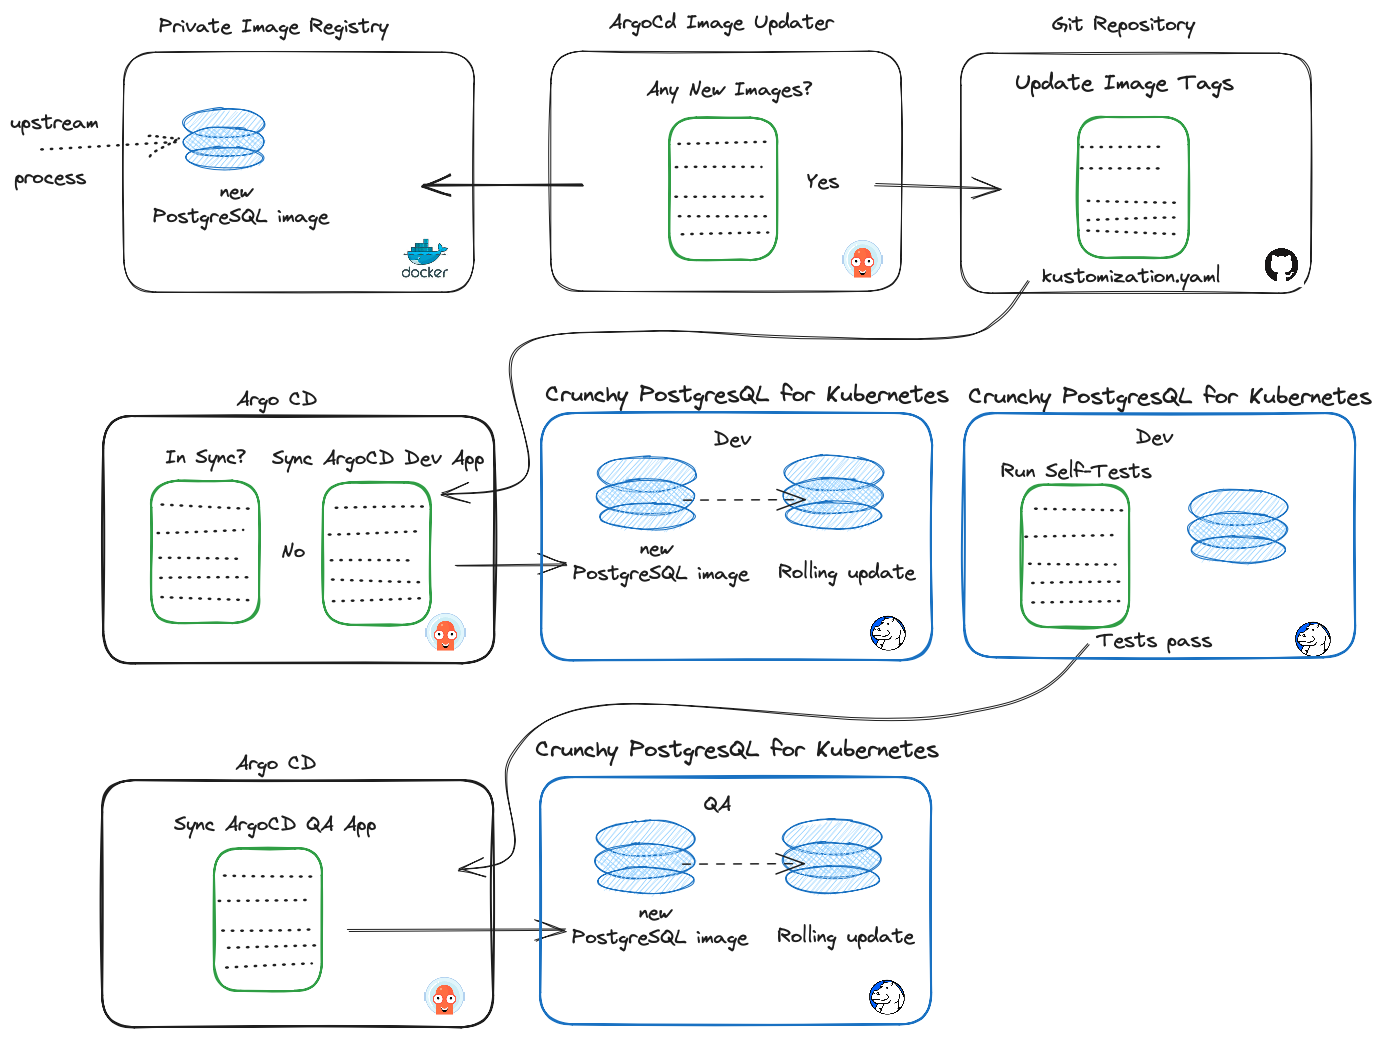
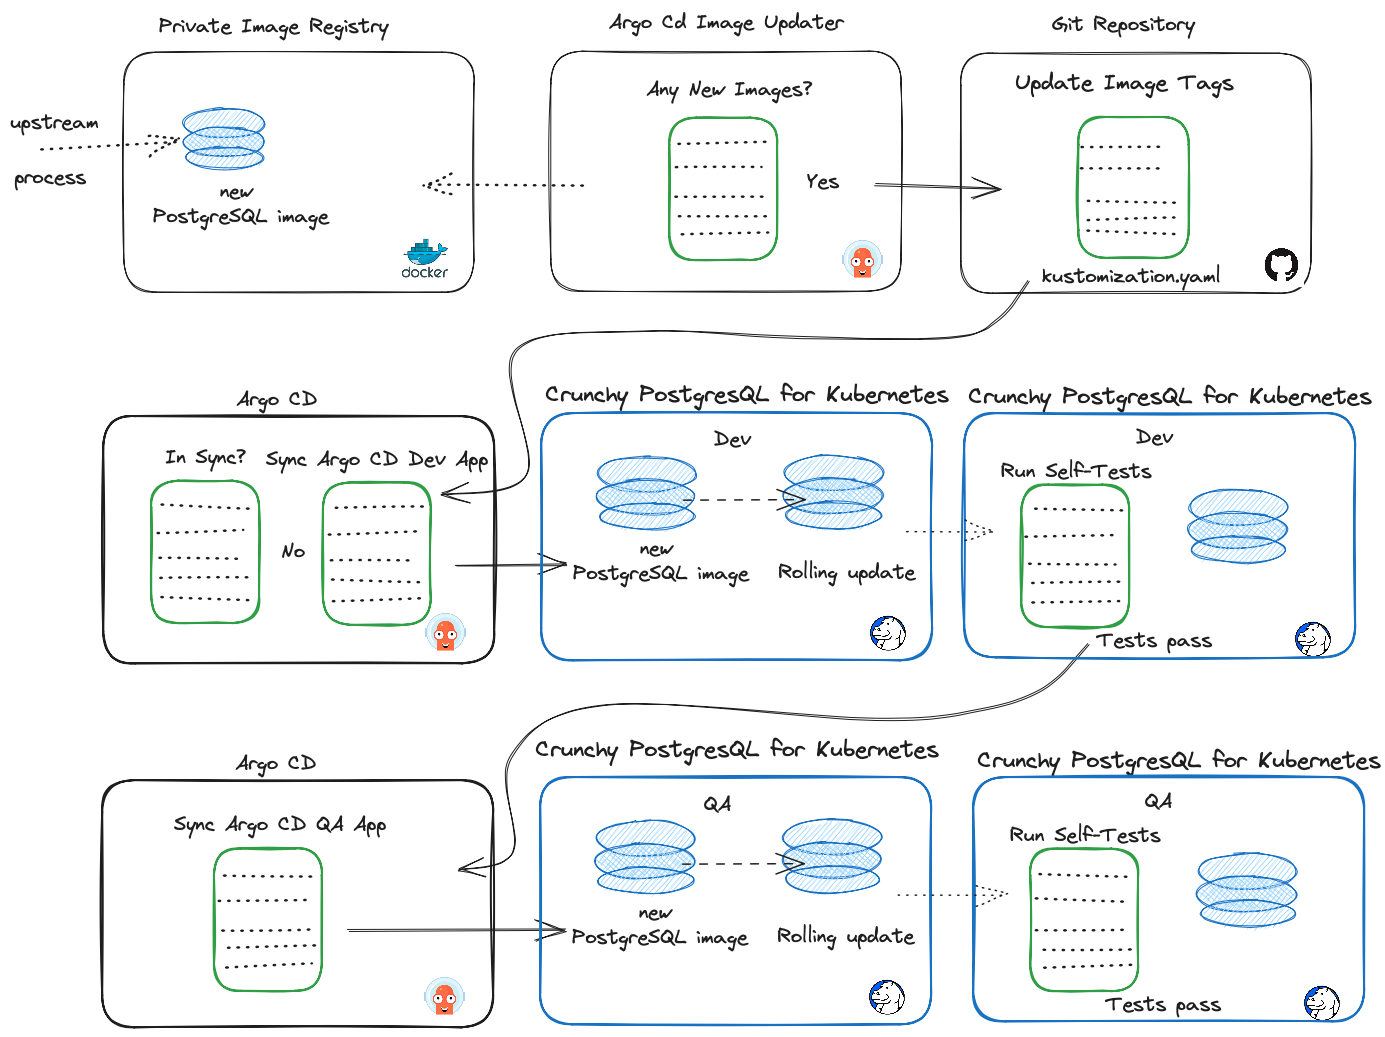
More Edits

diff --git a/Part-2-Update/README.md b/Part-2-Update/README.md
@@ -1,19 +1,19 @@
 # Use CI/CD to Automatically Update Postgres Images with Argo CD
-# DRAFT
+
 When working with containers you always have to be mindful of the age of the containers. Everyday new CVEs are being discovered and are turning up in image scans.  One benefit of having a CI/CD pipeline is the ability to implement security automation.  Let's assume you release a monthly update of your containers that are built on the latest version of the base image and all of the most recent patches have been applied.  This ensures that each month you can remediate any CVEs that might have popped up in your images since their initial release.  In this blog we show you how to use ARGO CD Image Updater as part of your CI/CD pipeline to automatically deploy, test and promote your updated images.  All by doing nothing more than putting them into your registry.
 
 ![workflow](images/argo_image_update_workflow.png)
 
-This is the part 2 of CI/CD with Crunchy Postgres for Kubernetes and Argo series.  We will pickup from where we left off in [part 1](https://www.crunchydata.com/blog/ci-cd-with-crunchy-postgres-for-kubernetes-and-argo). We will use ArgoCD Image Updater to monitor a private Docker registry for changes to the postgres image tag.  The image updater will update the image tag in github and the ArgoCD application will deploy those changes to the postgres-dev namespace.  Once deployed, the [self-test](https://github.com/bobpach/Crunchy-Postgres-Self-Test) will run and the changes will be applied to the postgres-qa namespace if all tests pass.
+This is the part 2 of CI/CD with Crunchy Postgres for Kubernetes and Argo series.  We will pickup from where we left off in [part 1](https://www.crunchydata.com/blog/ci-cd-with-crunchy-postgres-for-kubernetes-and-argo). We will use Argo CD Image Updater to monitor a private Docker registry for changes to the postgres image tag.  The image updater will update the image tag in github and the Argo CD application will deploy those changes to the postgres-dev namespace.  Once deployed, the [self-test](https://github.com/bobpach/Crunchy-Postgres-Self-Test) will run and the changes will be applied to the postgres-qa namespace if all tests pass.
 
 ## Prerequisites
 There are a few pre-requisites you will need to handle if you plan on following along with this example :
-- A fully functional ArgoCD deployment and a Crunchy Data Postgres cluster as described in my previous [CI/CD blog](https://www.crunchydata.com/blog/ci-cd-with-crunchy-postgres-for-kubernetes-and-argo).
+- A fully functional Argo CD deployment and a Crunchy Data Postgres cluster as described in my previous [CI/CD blog](https://www.crunchydata.com/blog/ci-cd-with-crunchy-postgres-for-kubernetes-and-argo).
 - A private container registry containing the images you want to deploy. Most
   organizations will pull images, tag them and then upload them into their
   private registries. For this blog I am using a private registry for all images
   except the self test. That image is in a public repo in my docker registry.
-- An [access token](https://docs.github.com/en/authentication/connecting-to-github-with-ssh/managing-deploy-keys) for your private registry.
+- An [access token](https://docs.docker.com/docker-hub/access-tokens/) for your private registry.
 - A git repository containing the Crunchy Postgres for Kubernetes manifest to be
   deployed. Here's a sample manifest you can use or you can fork
   [my git repository](https://github.com/bobpach/Postgres-CI-CD).
@@ -27,10 +27,14 @@ kubectl apply -n argocd -f secrets/privaterepo.yaml
 kubectl apply -n argocd -f secrets/privatereg.yaml
 ```
 
-You should already have a secret called argocd-token in the postgres-dev and postgres-qa namespaces.  This secret contains the base64 encoded JWT token that was created in the sync role in the cicd project in ArgoCD.  It was created as part of the initial CI/CD blog. 
+You should already have a secret called argocd-token in the postgres-dev and postgres-qa namespaces.  This secret contains the base64 encoded JWT token that was created in the sync role in the cicd project in ArgoCD.  It was created as part of the initial CI/CD blog. If you do not have the secret, you can create it now:
+
+```bash
+kubectl apply -n argocd -f secrets/argocd_token.yaml
+```
 
 ## Argo CD Image Updater
-[Argo CD Image Updater](https://argocd-image-updater.readthedocs.io/en/stable/) is a tool to automatically update the container images of Kubernetes workloads that are managed by Argo CD.  We will use it to monitor postgres container images in our private docker registry.
+[Argo CD Image Updater](https://argocd-image-updater.readthedocs.io/en/stable/) is a tool to automatically update the container images of Kubernetes workloads that are managed by Argo CD.  We will use it to monitor postgres container images in our private docker registry and update our image tag in our git repo.
 
 ### Installation
 We will install Argo CD Image Updater into the argocd namespace in our kubernetes cluster.  We already have Argo CD installed there from the previous blog.
@@ -99,8 +103,10 @@ In the ARGO CD UI click on applications in the left pane.  Click on the postgres
 
 Click Save.
 
+Note: In this demo we are only monitoring one image.  You can monitor multiple images by adding them to the image-list annotation.  See [Argo CD Image Updater doc](https://argocd-image-updater.readthedocs.io/en/stable/configuration/images/) for more information.
+
 ## Kustomize
-In order for ArgoCD Image Updater to update our images in git we need to change how we reference our image tags.  In the previous CI/CD blog we referenced them in in the PostgresCluster custom resource itself.  Now we will move the postgres image tag into the kustomization.yaml file.  We will add a transformer and remove the tag from the custom resource.
+In order for Argo CD Image Updater to update our images in git we need to change how we reference our image tags.  In the previous CI/CD blog we referenced them in in the PostgresCluster custom resource itself.  Now we will move the postgres image tag into the kustomization.yaml file.  We will add a transformer and remove the tag from the custom resource.
 ### Transformer
 postgres-cluster-image-transformer.yaml
 ```yaml
@@ -142,7 +148,7 @@ spec:
 Check these changes into your git repo.  They will be required before updating the postgres image in the registry.
 
 ## Deploy the clusters
-If you don't already have your postgres clusters up and running, synch the postgres-dev ArgoCD application.  This will deploy the postgres cluster to the postgres-dev namespace and will run the self test which will synch the postgres cluster to the postgres-qa namespace.  
+If you don't already have your postgres clusters up and running, synch the postgres-dev Argo CD application.  This will deploy the postgres cluster to the postgres-dev namespace and will run the self test which will synch the postgres cluster to the postgres-qa namespace.  
 
 Verify both clusters deployed.
 ```bash
@@ -162,26 +168,26 @@ hippo-pgha1-4cmv-0        5/5     Running     0          3m54s
 hippo-pgha1-mzfm-0        5/5     Running     0          3m54s
 hippo-repo-host-0         2/2     Running     0          3m54s
 ```
-Both postgres clusters are up and running.  Lets take a look at the postgres image version we deployed for each cluster.  We will describe the stateful sets for each namespace.  
+Both postgres clusters are up and running.  Lets take a look at the postgres image version we deployed for each cluster.  We will describe the stateful sets for each namespace. Notice the crunchy-postgres image tag is currently ubi8-5.3.0-1.  This is our starting image. 
 
 Note: Results shown below have been truncated for readability.
 
 ```bash
 kubectl get -n postgres-dev sts -o wide | grep crunchy-postgres
-hippo-pgha1-7lng   1/1     7m2s   bobpachcrunchy/crunchy-pgbackrest:ubi8-5.3.0-1
-hippo-pgha1-g8xx   1/1     7m3s   bobpachcrunchy/crunchy-pgbackrest:ubi8-5.3.0-1
-hippo-pgha1-nnrm   1/1     7m3s   bobpachcrunchy/crunchy-pgbackrest:ubi8-5.3.0-1
+hippo-pgha1-7lng   1/1     7m2s   bobpachcrunchy/crunchy-postgres:ubi8-5.3.0-1
+hippo-pgha1-g8xx   1/1     7m3s   bobpachcrunchy/crunchy-postgres:ubi8-5.3.0-1
+hippo-pgha1-nnrm   1/1     7m3s   bobpachcrunchy/crunchy-postgres:ubi8-5.3.0-1
 
 kubectl get -n postgres-qa sts -o wide | grep crunchy-postgres
-hippo-pgha1-4992   1/1     7m1s   bobpachcrunchy/crunchy-pgbackrest:ubi8-5.3.0-1
-hippo-pgha1-4cmv   1/1     7m1s   bobpachcrunchy/crunchy-pgbackrest:ubi8-5.3.0-1
-hippo-pgha1-mzfm   1/1     7m1s   bobpachcrunchy/crunchy-pgbackrest:ubi8-5.3.0-1
+hippo-pgha1-4992   1/1     7m1s   bobpachcrunchy/crunchy-postgres:ubi8-5.3.0-1
+hippo-pgha1-4cmv   1/1     7m1s   bobpachcrunchy/crunchy-postgres:ubi8-5.3.0-1
+hippo-pgha1-mzfm   1/1     7m1s   bobpachcrunchy/crunchy-postgres:ubi8-5.3.0-1
 ```
 
 
 ## Time to Automate Updates
 We have completed all of the prep work.  Now its time to automate updates.  We need to make one more change to the postgres-dev application in Argo CD.  We will edit the application and enable auto-sync.
-- Click on applications in the left panel.
+- Click on applications in the left panel of the Argo CD UI.
 - Click on the postgres-dev application
 - Click the App Details button in the top panel.
 - Click the Enable Auto-Sync button in the Sync Policy Pane of the panel.
@@ -225,11 +231,11 @@ resources:
 - postgres-self-test-config.yaml
 - postgres.yaml
 ```
-The postgres-dev Argo CD app is set to auto-synch.  By default auto-synch will fire every 3 minutes.  When it does fire, it will see that it is out of sync with the git repo and reapply the manifest.  The postgres pods go into a rolling restart process.  Each replica pod will be taken down one at a time and re-initialized with the new image.  After all replica pods are updated a failover happens to elect an updated replica to the primary pod role.  The former primary is then brought down and re-initialized as a replica with the new image.  At this point, all postgres pods in the postgres cluster are running the new image with the only downtime being the few seconds for failover to happen.
+The postgres-dev Argo CD app is set to auto-synch.  By default auto-synch will fire every 3 minutes.  When it does fire, it will see that it is out of sync with the git repo and re-apply the manifest.  The postgres pods go into a rolling restart process.  Each replica pod will be taken down one at a time and re-initialized with the new image.  After all replica pods are updated a failover happens to elect an updated replica to the primary pod role.  The former primary is then brought down and re-initialized as a replica with the new image.  At this point, all postgres pods in the postgres cluster are running the new image with the only downtime being the few seconds for failover to happen.
 
 The self-test container ran after the replica was promoted to primary.  It then calls the synch command on the postgres-qa Argo CD app and that postgres cluster also gets its images updated in the same manner.
 
-Both postgres clusters have now been updated.  Lets take a look at the postgres image version we updated for each cluster.  We will describe the stateful sets for each namespace.  
+Both postgres clusters have now been updated.  Lets take a look at the postgres image version we updated for each cluster.  We will describe the stateful sets for each namespace. Notice the crunchy-postgres image tag is now ubi8-15.3-5.3.2-1.  This is our updated image.  
 
 Note: Results shown below have been truncated for readability.
 
